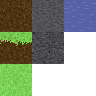
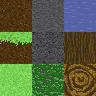
Added tree spawning, and fixed some world generation for it to be better

diff --git a/files/src/world/world.cpp b/files/src/world/world.cpp
@@ -32,8 +32,28 @@ void GameWorld::World::generateWorld(const std::vector<types::loc>& new_chunks_l
 
 	static const auto z_stride{ GameWorld::Voxels::Chunk::g_size * GameWorld::Voxels::Chunk::g_size };
 
-	const SeedType seed{ 123456u };
+	const SeedType seed{ 1232356u };
 	siv::PerlinNoise perlin{ seed };
+
+
+	const auto sampleSpline = [](const std::vector<vec2d>& pts, double x) -> double
+		{
+			if (pts.empty()) return {};
+
+			if (x <= pts.front().x) return pts.front().y;
+			if (x >= pts.back().x) return pts.back().y;
+
+			for (size_t i{}; i < pts.size() - 1; i++)
+			{
+				if (x >= pts[i].x && x <= pts[i + 1].x)
+				{
+					double t{ (x - pts[i].x) / (pts[i + 1].x - pts[i].x) };
+					return pts[i].y + t * (pts[i + 1].y - pts[i].y);
+				}
+			}
+
+			return {};
+		};
 
 	for (const auto& loc : new_chunks_loc)
 	{
@@ -45,83 +65,94 @@ void GameWorld::World::generateWorld(const std::vector<types::loc>& new_chunks_l
 			{
 				// Generate Depth for the world
 
-				//const double frequency{ 0.001 }; // lower = bigger hills
-				//const double amplitude{ 32 }; // Maximum terrain height
+				// frequency: how many waves on a scale
+				// amplitude: size of waves
 
-				vec2d bpz{ vec2d{(double)x, (double)z} + vec2d{chunk.getPos().x, chunk.getPos().z } };
+				vec2d bpz{ x + chunk.getPos().x, z + chunk.getPos().z };
 
-				double scale_p = 0.01;
+				double continetalness = perlin.octave2D_11(bpz.x * 0.001, bpz.y * 0.001, 6);
 
-				vec2d bpz_p{ bpz * scale_p };
-				double plains
-				{
-					 2. * perlin.octave2D_01(1. * bpz_p.x, 1. * bpz_p.y, 0.1) +
-					 1. * perlin.octave2D_01(1. * bpz_p.x, 1. * bpz_p.y, 1) +
-					 0.5 * perlin.octave2D_01(2. * bpz_p.x, 2. * bpz_p.y, 2) +
-					 0.25 * perlin.octave2D_01(4. * bpz_p.x, 4. * bpz_p.y, 4)
-				};
+				
+				y_max = sampleSpline(
+					{
+						{-1.f, -20.f},
+						{-0.8, -10.f},
+						{-0.6, 10.f},
+						{-0.4, 30.f},
+						{-0.3, 45.f},
+						{-0.1, 50.f},
+						{0.1f, 55.f},
+						{0.2f, 60.f},
+						{0.255f, 90.f},
+						{0.355f, 100.f},
+						{0.389f, 80.f},
+						{0.4f, 70.f},
+						{0.5f, 80.f},
+						{0.8f, 65.f},
+						{1.f , 75.f}
+					}, continetalness);
+			
 
-				plains /= (2. + 1. + 00.5 + 0.25);
-				plains = std::pow(plains, 2.);
-
-
-				double scale_m = 0.01;
-
-				vec2d bpz_m{ bpz * scale_m };
-				double mountains
-				{
-					 1. * perlin.octave2D_01(1. * bpz_m.x, 1. * bpz_m.y, 1) +
-					 0.5 * perlin.octave2D_01(2. * bpz_m.x, 2. * bpz_m.y, 2) +
-					 3. * perlin.octave2D_01(4. * bpz_m.x, 4. * bpz_m.y, 3)
-				};
-
-				mountains /= (1. + 0.5 + 3.);
-				mountains = std::pow(mountains, 1.5);
-
-				double sum = plains;
-
-				y_max = sum * 190.;
-
-
+				const auto sea_level{ 75. };
 				// Choose Which block type goes where
 				for (int64 y{}; y < 32; y++)
 				{
 					auto& current_block{ chunk.block_at(z * z_stride + y * GameWorld::Voxels::Chunk::g_size + x) };
 
-
-					current_block.id = 0;
-
 					double bp = y + chunk.getPos().y; // block pos in world coords
 
-
-					if (bp >= y_max - 5 && bp <= y_max)
+					if (current_block.id != 6)
 					{
-						current_block.id = 2;
+						if (bp < y_max && bp > y_max - 1)
+							current_block.id = 1;
 
-						if (bp >= y_max - 1)
-							if(bp < y_base - 1)
-							{
-								current_block.id = 2;
-							}
-							else
-								current_block.id = 1;
+						if (bp < y_max - 1 && bp > y_max - 4)
+							current_block.id = 2;
 
-						
+						if (bp < y_max - 4 && bp > y_max - 80)
+							current_block.id = 3;
+
+						if (bp < y_max - 80)
+							current_block.id = 4;
+
+						if (bp > y_max && bp < sea_level)
+							current_block.id = 5;
 					}
 
-					if (bp <= y_max - 5 && bp > y_max - 40)
-						current_block.id = 3;
-
-					if (bp <= y_max - 40)
-						current_block.id = 4;
-
-					if (bp > y_max && bp < y_base)
-						current_block.id = 5;
+					if (bp > y_max && /*condition for tree to spawn*/ && bp < y_max + 1)
+					{
+						if (auto& b = chunk.block_at({ x, y, z }); b.id != 5)
+							b.id = 6;
+						else
+							continue;
 
 
+						if (auto* b = chunk.block_at_ptr({ x, y + 1, z }))
+							b->id = 6;
+
+						if (auto* b = chunk.block_at_ptr({ x, y + 2, z }))
+							b->id = 6;
+
+						if (auto* b = chunk.block_at_ptr({ x, y + 3, z }))
+							b->id = 7;
+
+						// add index version to private
+						if (auto* b = chunk.block_at_ptr({ x, y + 2, z + 1 }))
+							b->id = 7;
+
+						if (auto* b = chunk.block_at_ptr({ x, y + 2, z - 1 }))
+							b->id = 7;
+
+							
+						if (auto* b = chunk.block_at_ptr({ x + 1, y + 2, z }))
+							b->id = 7;
+
+						if (auto* b = chunk.block_at_ptr({ x - 1, y + 2, z }))
+							b->id = 7;
+					}
 				}
-			}
 
+			}
 	}
 }
 

diff --git a/files/src/rendering/world_managing/data/TypeManagement/voxelType.hpp b/files/src/rendering/world_managing/data/TypeManagement/voxelType.hpp
@@ -190,6 +190,7 @@ namespace Render::Data::Types
 	namespace TextureUVperFace
 	{
 		// Each vector represents the position of the texture of a face under the format: 32x32
+		// front, back / up, down / left, right
 
 		constexpr std::array<vec2f, 6> c_dirtGrass{ vec2f{ 0,1 }, { 0, 1 }, { 0, 0 }, { 0, 2 }, { 0, 1 }, { 0, 1 } };
 
@@ -200,6 +201,10 @@ namespace Render::Data::Types
 		constexpr std::array<vec2f, 6> c_deepStone{ vec2f{ 1, 1 }, { 1, 1 }, { 1, 1 }, { 1, 1 }, { 1, 1 }, { 1, 1 } };
 
 		constexpr std::array<vec2f, 6> c_water1{ vec2f{ 2, 2 }, { 2, 2 }, { 2, 2 }, { 2, 2 }, { 2, 2 }, { 2, 2 } };
+
+		constexpr std::array<vec2f, 6> c_tree{ vec2f{ 2, 1 }, { 2, 1 }, { 2, 0 }, { 2, 0 }, { 2, 1 }, { 2, 1 } };
+
+		constexpr std::array<vec2f, 6> c_leaf{ vec2f{ 1, 0 }, { 1, 0 }, { 1, 0 }, { 1, 0 }, { 1, 0 }, { 1, 0 } };
 
 	}
 

diff --git a/files/src/world/voxels/chunk.hpp b/files/src/world/voxels/chunk.hpp
@@ -51,10 +51,17 @@ namespace GameWorld::Voxels
 
 		// = Mutators
 
+		Render::Data::Voxel& block_at(const types::loc& loc) { return block_at(loc.x + loc.y * g_size + loc.z * g_size * g_size ); }
+
 		Render::Data::Voxel& block_at(const types::chunk_index& index) { return m_voxels.at(index); }
+
+		Render::Data::Voxel* block_at_ptr(const types::loc& loc) { return block_at_ptr(loc.x + loc.y * g_size + loc.z * g_size * g_size); }
+
+		Render::Data::Voxel* block_at_ptr(const types::chunk_index& index);
 
 		const Render::Data::Voxel& block_at(const types::chunk_index& index) const { return m_voxels.at(index); }
 		
+	private:
 
 	private:
 
@@ -67,6 +74,7 @@ namespace GameWorld::Voxels
 	public:
 
 		static constexpr std::uint8_t g_size{ 32 };
+		static constexpr std::uint16_t g_maxSize{ 32'768 };
 	};
 
 }

diff --git a/files/src/main.cpp b/files/src/main.cpp
@@ -279,6 +279,7 @@ try
 
 			ImGui::SliderFloat("Player Speed   ", &player.attributes.speed, 0.0f, 500.0f);
 			ImGui::SliderFloat("Player MaxSpeed", &player.attributes.maxSpeed, 0.0f, 1000.f);
+			ImGui::SliderFloat("Player JUmpHeight", &player.attributes.jumpHeight, 0.0f, 1000.f);
 			ImGui::SliderScalar("Ray Distance", ImGuiDataType_U64, &WO.rayDist, &WO.rayDist_min, &WO.rayDist_max);
 
 			ImGui::Checkbox("Instant Vox. Break", &WO.instant_voxel_breaking);
@@ -394,7 +395,7 @@ try
 		}
 			
 
-		player.update(world, deltaTime); 
+		player.update(world, deltaTime);
 		
 
 		// Rendering

diff --git a/files/src/world/players/player/player.hpp b/files/src/world/players/player/player.hpp
@@ -74,14 +74,14 @@ namespace GameWorld
 			float sensitivity{ 0.1f };
 
 			bool moving{ false };
-			bool flying{ false };
-			bool ghost{ false };
+			bool flying{ true };
+			bool ghost{ true };
 
 		} attributes;
 
 	private:
 
-		Render::Utils::Camera m_camera{ {100, 100, 100} };
+		Render::Utils::Camera m_camera{ {641, 88, -543} };
 		Physics::Collisions::BasicHitbox m_hitbox{};
 
 		vec3f m_velocity{};

diff --git a/files/src/rendering/world_managing/data/TypeManagement/voxelTypeManager.hpp b/files/src/rendering/world_managing/data/TypeManagement/voxelTypeManager.hpp
@@ -22,6 +22,8 @@ namespace Render::Data::Types
 			types.push_back(TextureUVperFace::c_stone);
 			types.push_back(TextureUVperFace::c_deepStone);
 			types.push_back({ TextureUVperFace::c_water1, true, false, {0, 0, {0, -0.1, 0}, 0, 0, 0} });
+			types.push_back(TextureUVperFace::c_tree);
+			types.push_back({ TextureUVperFace::c_leaf, true });
 		}
 
 

diff --git a/files/src/world/voxels/chunk.cpp b/files/src/world/voxels/chunk.cpp
@@ -26,3 +26,14 @@ const bool GameWorld::Voxels::Chunk::isWithinChunk(const types::pos& point) cons
 
 	return false;
 }
+
+Render::Data::Voxel* GameWorld::Voxels::Chunk::block_at_ptr(const types::chunk_index& index)
+{
+	if (index < 0)
+		return nullptr;
+
+	if (index >= Chunk::g_maxSize)
+		return nullptr;
+
+	return &m_voxels.at(index); 
+}

diff --git a/files/src/rendering/world_managing/data/basic/voxel.hpp b/files/src/rendering/world_managing/data/basic/voxel.hpp
@@ -21,7 +21,7 @@ namespace Render::Data
 	
 	struct Voxel
 	{
-		types::type_id id{};
+		types::type_id id{0};
 
 		static constexpr std::array<vec3f, 36> faces
 		{
